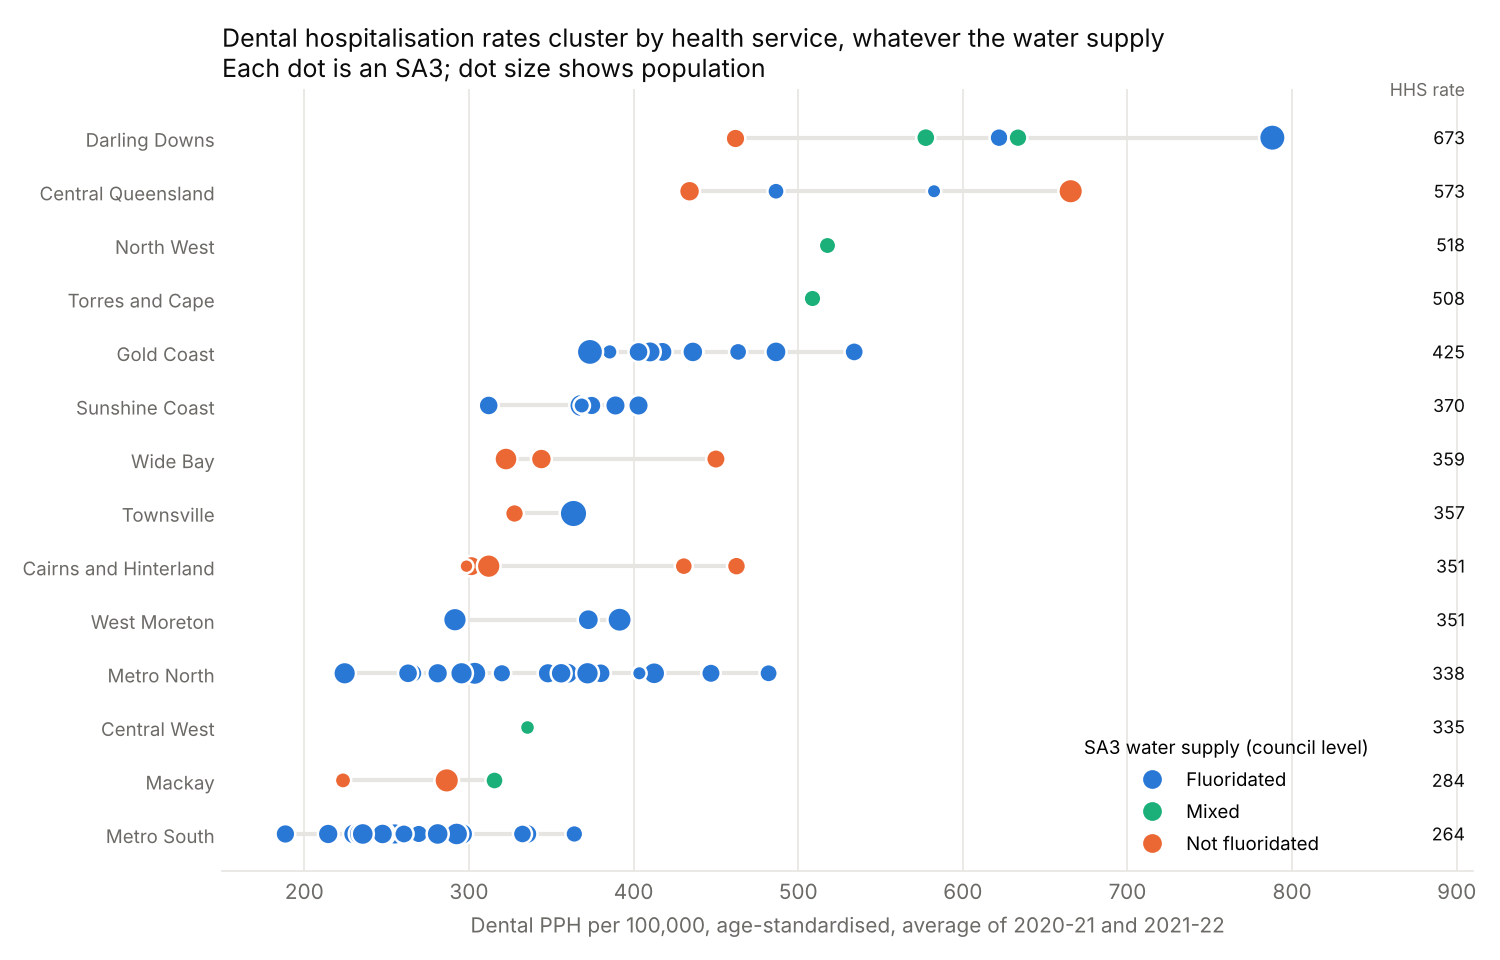
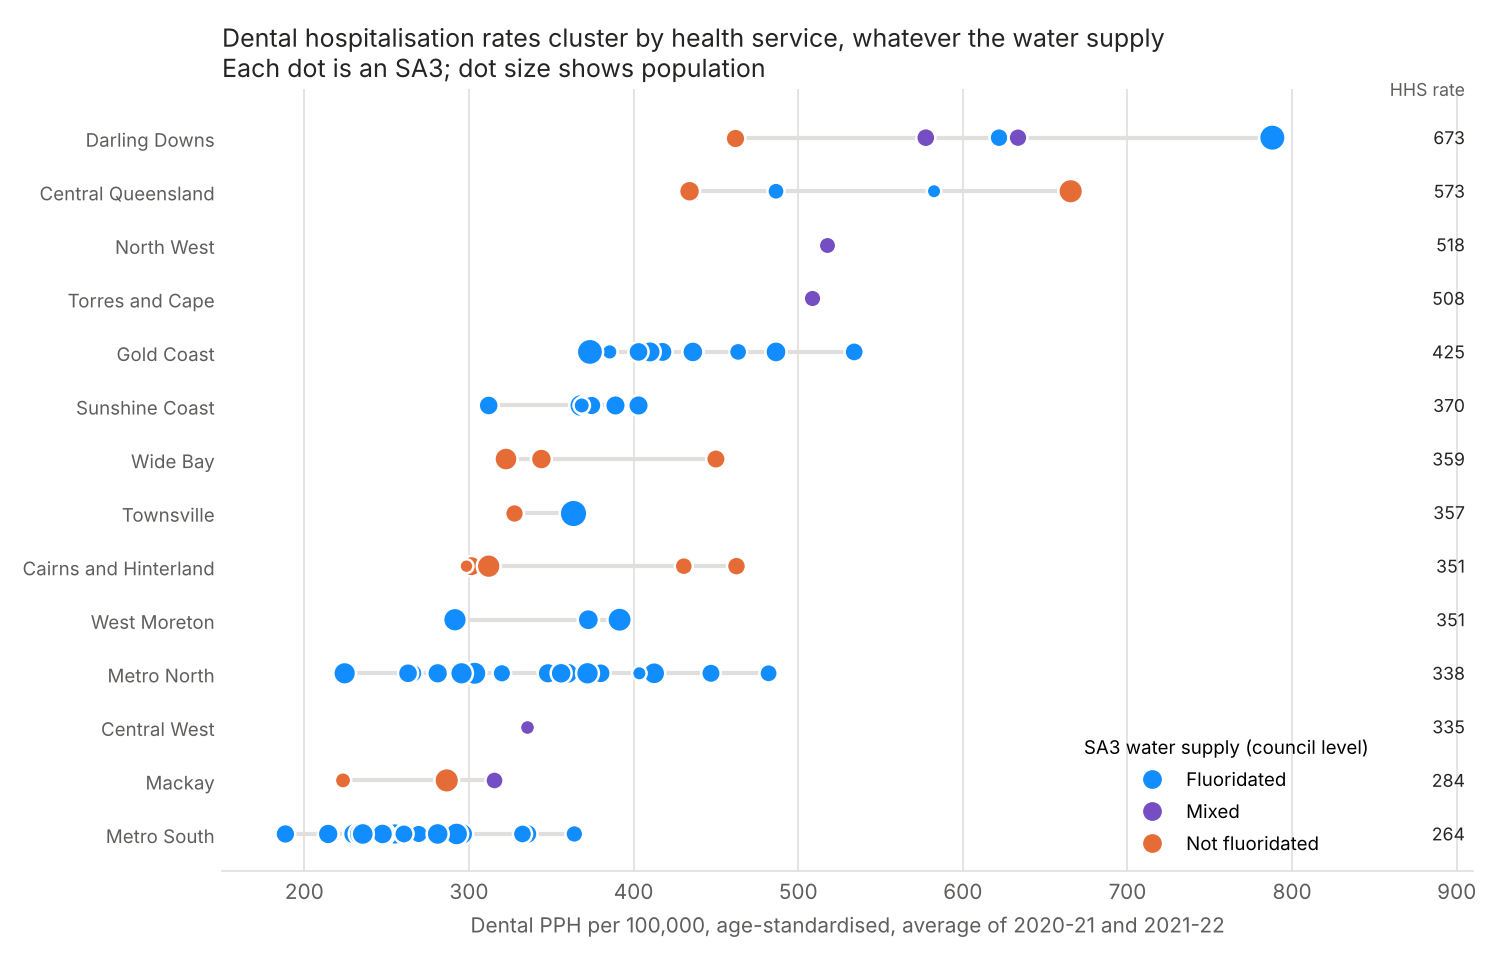
Switch fluoridation charts to the Power BI default theme palette

diff --git a/qld-water-fluoridation/qld_fluoridation_dental.py b/qld-water-fluoridation/qld_fluoridation_dental.py
@@ -173,8 +173,8 @@ def waiting_summary(wl):
 
 def chart_pph(d, hhs_rates, path):
     """One row per HHS, one dot per SA3, coloured by water supply status."""
-    ink, muted, grid = "#0b0b0b", "#6b6a66", "#e6e5e1"
-    colours = {"Fluoridated": "#2a78d6", "Mixed": "#1baf7a", "Not fluoridated": "#eb6834"}
+    ink, muted, grid = "#252423", "#605E5C", "#E1DFDD"  # Power BI default theme neutrals
+    colours = {"Fluoridated": "#118DFF", "Mixed": "#744EC2", "Not fluoridated": "#E66C37"}
     order = hhs_rates.sort_values("pph_rate").index.tolist()
     fig, ax = plt.subplots(figsize=(10, 6.4), dpi=150)
     for i, h in enumerate(order):
@@ -209,8 +209,8 @@ def chart_pph(d, hhs_rates, path):
 
 
 def chart_ga(trend, latest, path):
-    ink, muted, grid = "#0b0b0b", "#6b6a66", "#e6e5e1"
-    colours = {"South-east": "#2a78d6", "Regional": "#eb6834"}
+    ink, muted, grid = "#252423", "#605E5C", "#E1DFDD"  # Power BI default theme neutrals
+    colours = {"South-east": "#118DFF", "Regional": "#E66C37"}
     fig, (a1, a2) = plt.subplots(1, 2, figsize=(12, 5.2), dpi=150,
                                  gridspec_kw={"width_ratios": [1, 1.15]})
     for reg, g in trend.groupby("region"):
